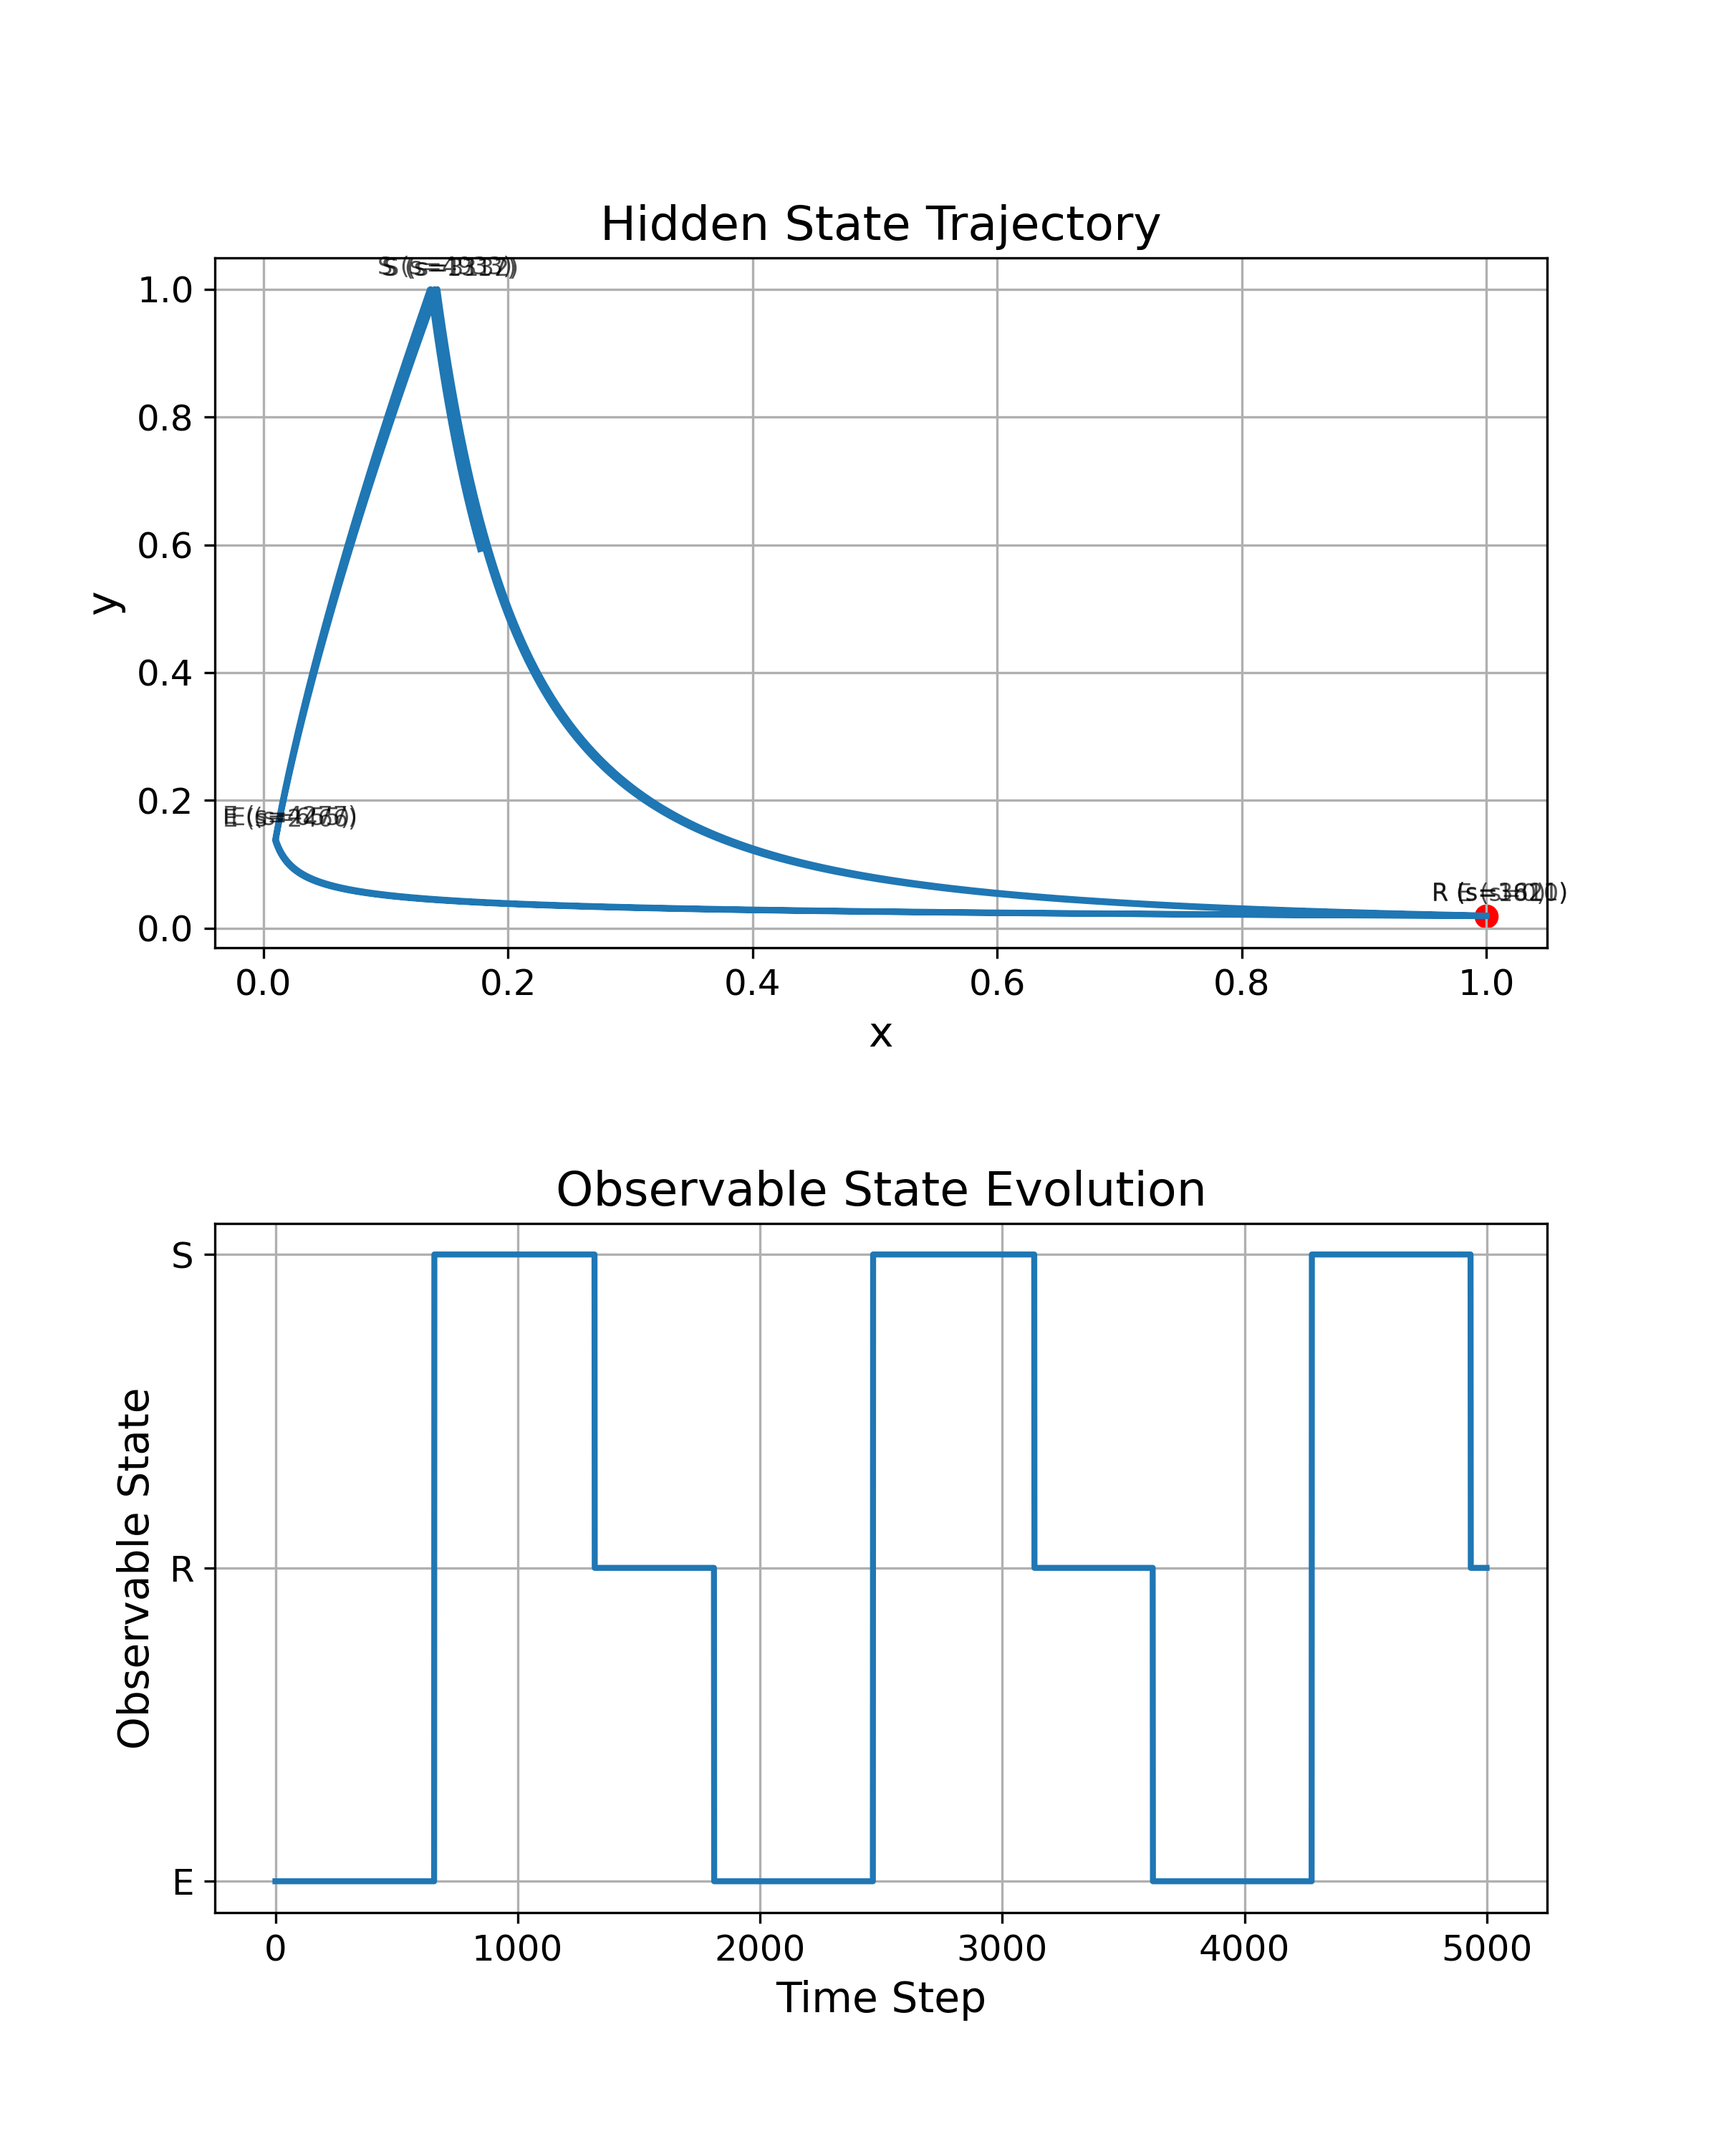
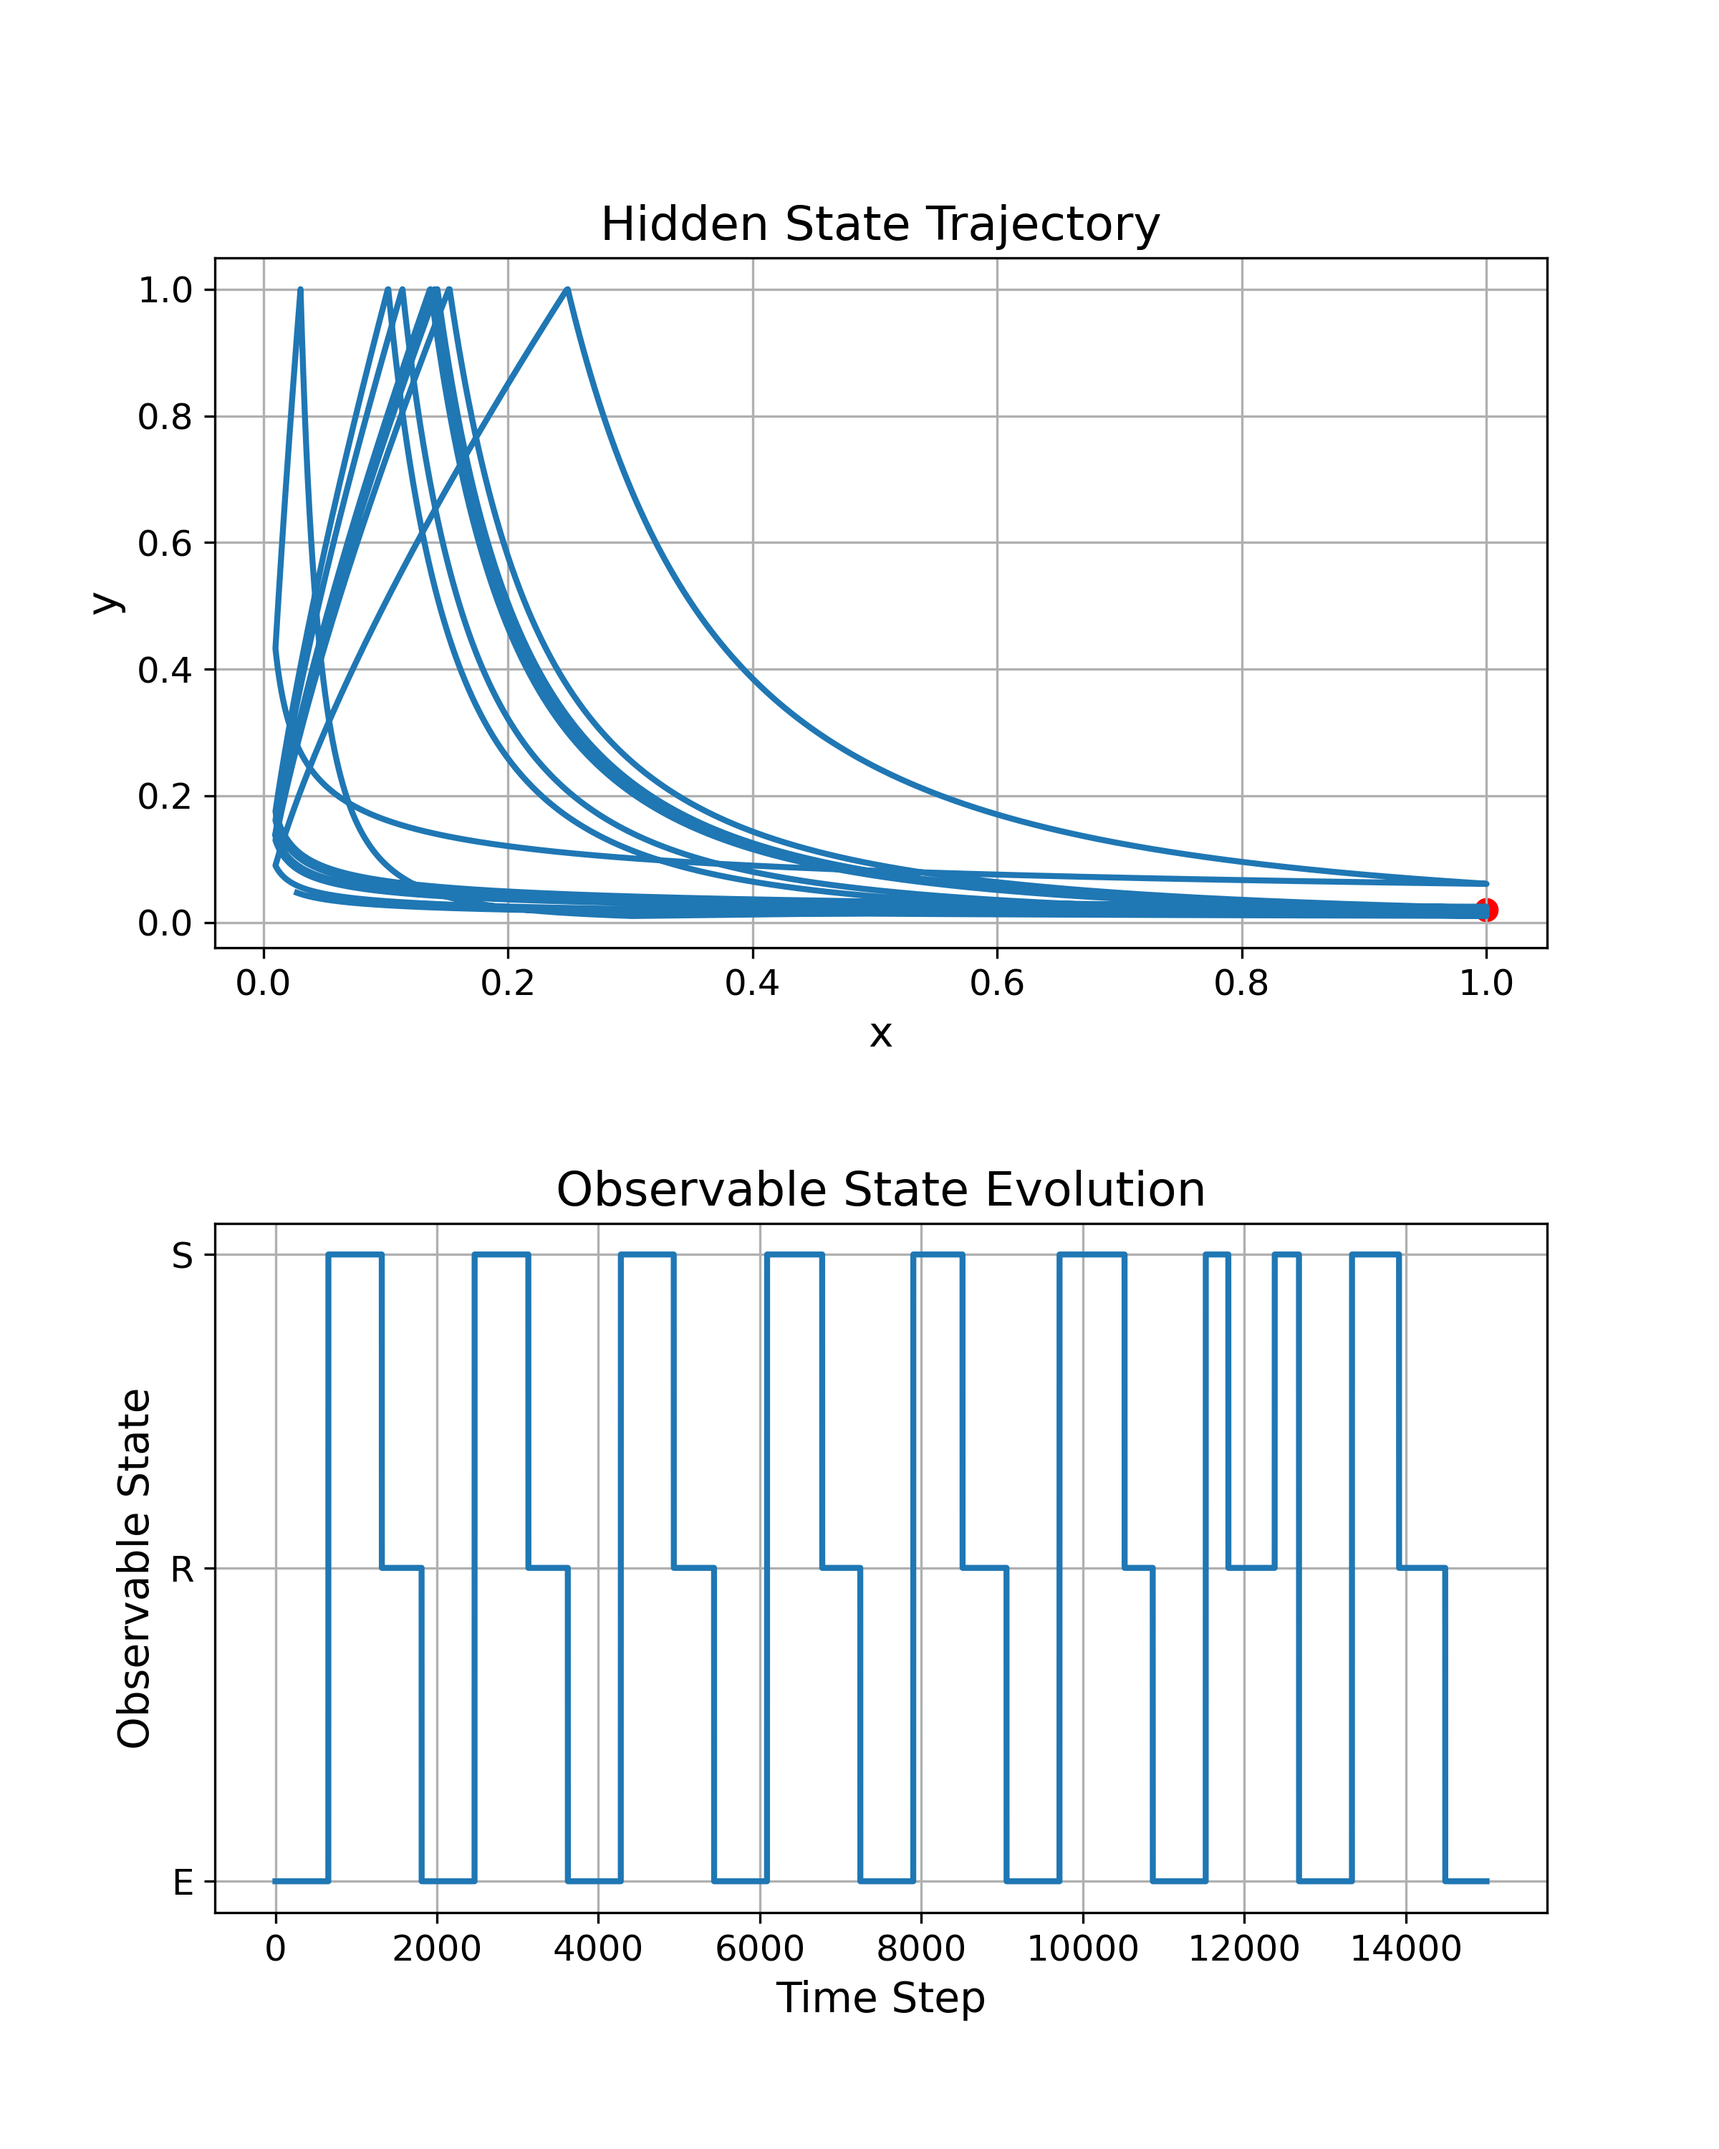
fixed periodic orbit B

diff --git a/main.py b/main.py
@@ -8,7 +8,7 @@ def simulate_one_cow(initial_conds: dict = {}, case_label: str = "generic"):
     Make two plots: one of hidden state over time, one of observable state over time.
     """
     cow = Cow(**initial_conds)
-    steps = 5000 #15000
+    steps = 15000 
     hidden_states = np.zeros((steps, 2))
     obs_states = np.zeros(steps, dtype=int)
     state_change_idxs = [0]
@@ -28,16 +28,16 @@ def simulate_one_cow(initial_conds: dict = {}, case_label: str = "generic"):
     # Hidden state trajectory
     ax1.plot(hidden_states[:, 0], hidden_states[:, 1], linewidth=2)
     ax1.scatter(hidden_states[0, 0], hidden_states[0, 1], color='red', label='Initial State', s=50)
-    for idx in state_change_idxs:
-        ax1.annotate(
-            f"{['E', 'R', 'S'][obs_states[idx]]} (s={idx})",
-            (hidden_states[idx, 0], hidden_states[idx, 1]),
-            textcoords="offset points",
-            xytext=(5, 5),
-            ha='center',
-            fontsize=8,      # smaller font
-            alpha=0.7)        # slightly transparent
-
+    # for idx in state_change_idxs:
+    #     ax1.annotate(
+    #         f"{['E', 'R', 'S'][obs_states[idx]]} (s={idx})",
+    #         (hidden_states[idx, 0], hidden_states[idx, 1]),
+    #         textcoords="offset points",
+    #         xytext=(5, 5),
+    #         ha='center',
+    #         fontsize=8,      # smaller font
+    #         alpha=0.7)        # slightly transparent
+    
     ax1.set_title("Hidden State Trajectory", fontsize=16)
     ax1.set_xlabel("x", fontsize=14)
     ax1.set_ylabel("y", fontsize=14)
@@ -57,9 +57,9 @@ def simulate_one_cow(initial_conds: dict = {}, case_label: str = "generic"):
     plt.tight_layout()
 
     # Save plot
-    save_path = f"figures/periodic_orbit_case_{case_label}.png"
-    plt.savefig(save_path, dpi=300)
-    print(f"[Info] Saved figure to {save_path}")
+    # save_path = f"figures/periodic_orbit_case_{case_label}.png"
+    # plt.savefig(save_path, dpi=300)
+    # print(f"[Info] Saved figure to {save_path}")
 
     plt.show()
 
@@ -101,24 +101,30 @@ def simulate_periodic_orbit_B():
             If beta1 < alpha2, then 1/alpha1 + 1/alpha2 >= 1/beta1 + 1/beta2
         - With these parameters, the orbit is stable but not asymptotically stable (alpha2 > alpha1).
     """
-    alpha_1 = 0.03
-    alpha_2 = 0.08
-    beta_1 = 0.05
+    alpha_1 = 0.08
+    alpha_2 = 0.03
+    beta_1 = 0.03
     beta_2 = 0.09
+    delta = 0.01
+    x0 = 1
+    exponent = (1 + beta_1 / beta_2) / (1 + alpha_2 / alpha_1)
+    y0 = delta ** exponent
 
     # Condition checks
     prod_check = (alpha_2 / alpha_1) * (beta_2 / beta_1)
     assert prod_check > 1, f"Condition failed: prod_check = {prod_check}"
     if beta_1 < alpha_2:
-        sum_alpha_inv = 1/alpha_1 + 1/alpha_2
-        sum_beta_inv = 1/beta_1 + 1/beta_2
+        sum_alpha_inv = 1 / alpha_1 + 1 / alpha_2
+        sum_beta_inv = 1 / beta_1 + 1 / beta_2
         assert sum_alpha_inv >= sum_beta_inv, f"Condition failed: sum_alpha_inv = {sum_alpha_inv}, sum_beta_inv = {sum_beta_inv}"
 
     simulate_one_cow(
         initial_conds={
-            "params": (alpha_1, alpha_2, beta_1, beta_2)
-        }, 
-        case_label="B"
+            "params": (alpha_1, alpha_2, beta_1, beta_2),
+            "init_hiddenstate": (x0, y0),
+            "init_obsstate": "E"
+        },
+        case_label="B_asymptotically_stable"
     )
 
 
@@ -281,10 +287,10 @@ def plot_observable_states_stylized(states_1, states_2, start=3000, title="Obser
 if __name__ == "__main__":
     # simulate_one_cow()
     # simulate_periodic_orbit_A()
-    simulate_periodic_orbit_B()
+    # simulate_periodic_orbit_B()
     # simulate_periodic_orbit_C()
     # simulate_periodic_orbit_D()
-    # full_states_1, full_states_2 = simulate_two_cows()
+    full_states_1, full_states_2 = simulate_two_cows()
 
     # Select time slice
     start = 3000
